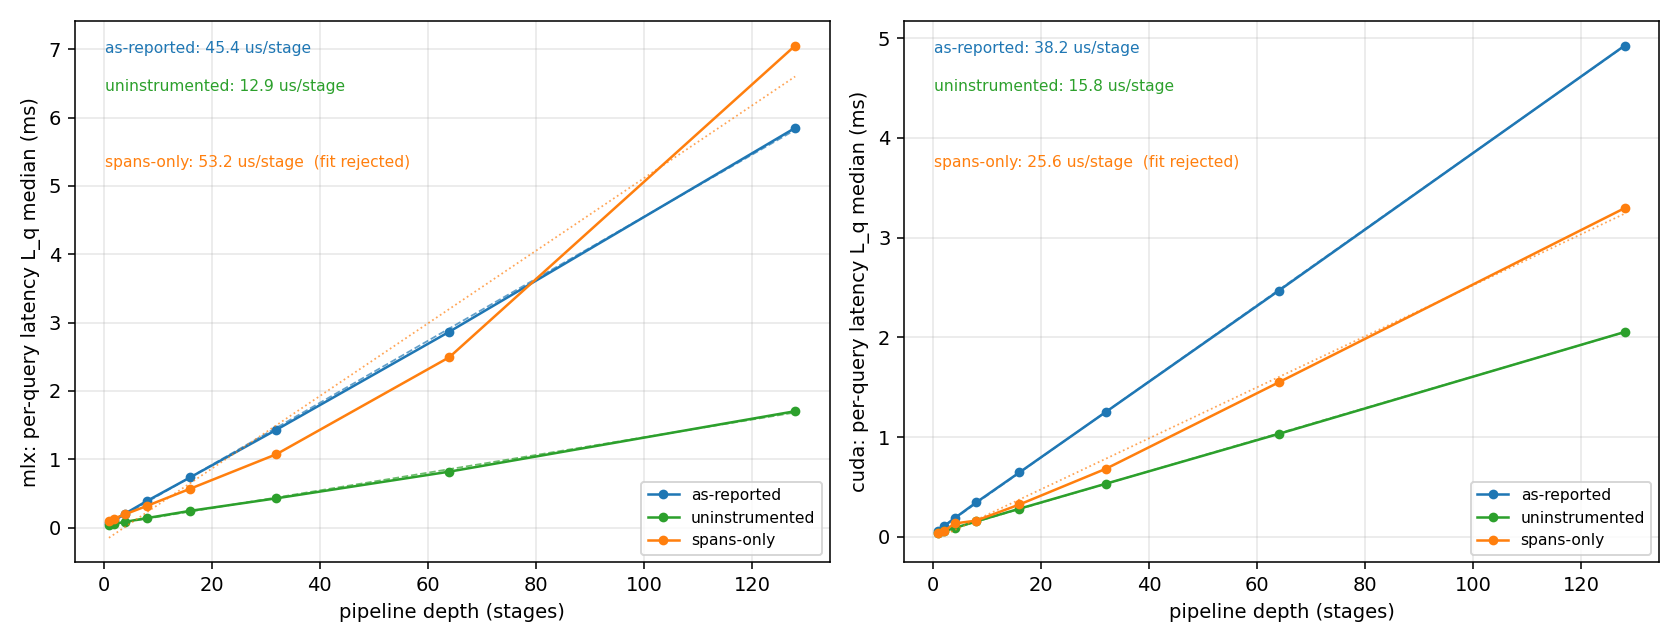
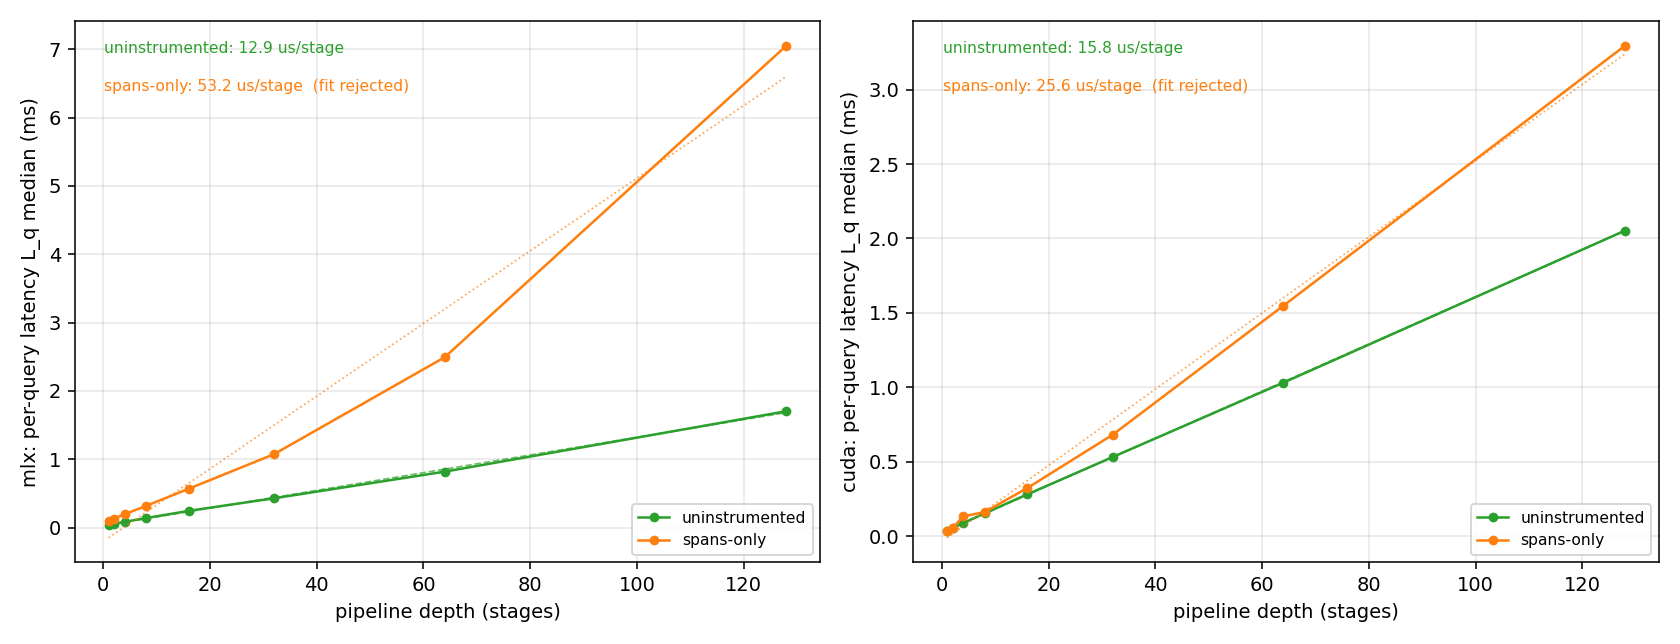
E1: figures follow the two arms, and name the metric they plot
The figures were drawn from current data but still framed around four arms
while the tables had moved to two, and the payload figure was worse than that.

  ARM_STYLE still listed as-reported and both, so figures 1 and 2 centred
  retired configurations. Now the two collected arms only.

  Figure 2's right panel plotted 'CSV instrument (as-reported -
  uninstrumented)' against a reference line for the cost of two log rows.
  Both belong to the retired diagnostic. It now plots the one quantity that
  matters: the cost of running with tracing on.

  The payload figure was labelled 'per-stage self-duration median' -- the OLD
  metric. It has been L_q/depth since the sweep moved off the CSV instrument.
  It also drew a single arm while the table showed two; it now draws both,
  solid for uninstrumented and dashed for spans-only, showing that tracing
  lifts the curve without bending it.

Regenerating them made a data defect visible that the four-arm framing had
buried: cuda spans-only is BIMODAL at depths 1-16. At depth 4 the eleven runs
split 21.6-22.1 against 39.5-48.6, roughly half and half, so the median lands
between the modes and reads +11.24 where its neighbours read +0.33 and +1.04.

It is specific to cuda AND spans: cuda uninstrumented is tight to +/-0.5% with
no bimodality, and mlx spans-only is merely noisy. That points at the exporter
child competing with the workload for the two pinned cores, with a short
[…]

diff --git a/evaluation/overheads/framework_overhead/analyze_e1.py b/evaluation/overheads/framework_overhead/analyze_e1.py
@@ -642,8 +642,10 @@ def latex_payload_table(runs, device):
 # ---------------------------------------------------------------------------
 # Figures
 # ---------------------------------------------------------------------------
-ARM_STYLE = {"as-reported": "tab:blue", "uninstrumented": "tab:green",
-             "both": "tab:red", "spans-only": "tab:orange"}
+# Only the two arms that are collected. `as-reported` and `both` were
+# diagnostic and are retired, so plotting them would centre the figures on
+# configurations nobody runs.
+ARM_STYLE = {"uninstrumented": "tab:green", "spans-only": "tab:orange"}
 
 
 def _od_curve(runs, arm):
@@ -668,10 +670,9 @@ def make_instrument_figure(per_device, fig_dir):
     plateaus IS the result -- the gap between them is our own logger, not the
     framework.
 
-    Right column: that gap plotted directly, against the independently measured
-    cost of the two CSV rows each stage writes (7.7 us/row, timed in isolation).
-    If the decomposition is real, the measured gap should sit on that line
-    without having been fitted to it.
+    Right column: the gap between them, which is what running with tracing on
+    costs per stage. It is not flat -- see SPAN_DEPTH_SCALING.md; the cost is
+    the multiprocessing-queue emit and tracks the number of span events.
     """
     import matplotlib
     matplotlib.use("Agg")
@@ -696,22 +697,15 @@ def make_instrument_figure(per_device, fig_dir):
 
         ax = axes[row][1]
         base = dict(curves["uninstrumented"])
-        for arm, color, lbl in (
-                ("as-reported", "tab:blue",
-                 "CSV instrument (as-reported - uninstrumented)"),
-                ("spans-only", "tab:orange",
-                 "span instrument (spans-only - uninstrumented)")):
-            pts = [(d, v - base[d]) for d, v in curves[arm] if d in base]
-            if pts:
-                xs, ys = zip(*pts)
-                ax.plot(xs, ys, "o-", color=color, ms=4, lw=1.4, label=lbl)
-        # 2 CSV rows per stage per query x 7.7 us/row, measured standalone.
-        ax.axhline(2 * 7.7, color="k", ls="--", lw=1.0, alpha=0.6,
-                   label="2 log rows x 7.7 us (measured separately)")
+        pts = [(d, v - base[d]) for d, v in curves["spans-only"] if d in base]
+        if pts:
+            xs, ys = zip(*pts)
+            ax.plot(xs, ys, "o-", color=ARM_STYLE["spans-only"], ms=4, lw=1.4,
+                    label="cost of tracing (spans-only - uninstrumented)")
         ax.axhline(0, color="k", lw=0.6, alpha=0.4)
         ax.set_xscale("log", base=2)
         ax.set_xlabel("pipeline depth (stages)")
-        ax.set_ylabel(f"{dev}: instrument cost per stage (us)")
+        ax.set_ylabel(f"{dev}: cost of tracing per stage (us)")
         ax.grid(alpha=0.3, which="both"); ax.legend(fontsize=8)
 
     fig.tight_layout()
@@ -766,19 +760,25 @@ def make_figures(per_device, fig_dir):
     fig.savefig(f1, dpi=140); plt.close(fig)
 
     # Fig 2: per-stage self-duration vs payload (zero-copy vs deep-copy), off arm.
-    fig, ax = plt.subplots(figsize=(7.5, 5))
+    fig, ax = plt.subplots(figsize=(8.5, 5.4))
     marker = {"mlx": "o", "cuda": "s"}
+    # Both arms: the claim is architectural, so it must hold with tracing on as
+    # well as off. Tracing lifts the whole curve but does not bend it.
+    style = {"uninstrumented": "-", "spans-only": "--"}
     for dev in per_device:
-        data = payload_collect(per_device[dev])
-        for mode, color in [("ref", "tab:green"), ("copy", "tab:red")]:
-            xs = [s for s in SIZES if s in data[mode]]
-            ys = [data[mode][s]["median"] for s in xs]
-            xplot = [max(x, 1) for x in xs]      # 0 -> 1 byte for the log axis
-            ax.plot(xplot, ys, marker[dev] + "-", color=color, ms=6, lw=1.3,
-                    label=f"{dev} {mode}")
+        for arm, ls in style.items():
+            data = payload_collect(per_device[dev], arm)
+            for mode, color in [("ref", "tab:green"), ("copy", "tab:red")]:
+                xs = [s for s in SIZES if s in data[mode]]
+                if not xs:
+                    continue
+                ys = [data[mode][s]["median"] for s in xs]
+                xplot = [max(x, 1) for x in xs]  # 0 -> 1 byte for the log axis
+                ax.plot(xplot, ys, marker[dev] + ls, color=color, ms=6, lw=1.3,
+                        label=f"{dev} {mode} ({arm})")
     ax.set_xscale("log"); ax.set_yscale("log")
     ax.set_xlabel("payload size (bytes; 0->1 for log axis)")
-    ax.set_ylabel("per-stage self-duration median (us)")
+    ax.set_ylabel("per-stage cost, L_q/depth, median (us)")
     ax.grid(alpha=0.3, which="both"); ax.legend(fontsize=8)
     fig.tight_layout()
     f2 = os.path.join(fig_dir, "e1_payload_zero_copy.png")
